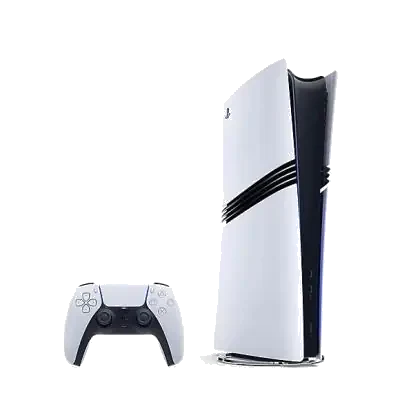
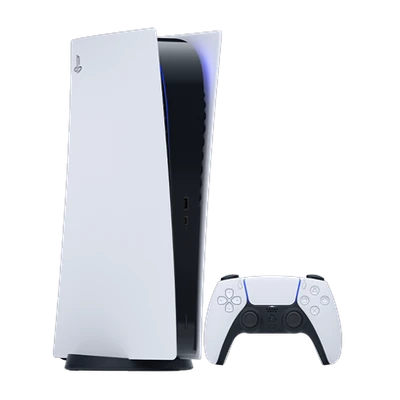
Smarter accessory prompt + fresh Swappa PS5 renders
- Accessory question now only shows when it actually moves price:
  MacBook (any condition, brick is pricey, +$30) or new tier on
  iPhone (+$10). Used iPhone / Samsung no longer ask. Drops the
  static '+$15' label in favor of the dynamic bonus value.
- getMaxPrice ceiling updated to match (+$30 macbook, +$10 iphone).
- PS5 / PS5 Slim / PS5 Pro / ps5-series thumb swapped to Swappa
  renders with proper transparent padding (was bleeding at edges).
- PS5 Pro now points to its own /devices/ps5pro.webp instead of
  reusing the standard PS5 image.

diff --git a/app/page.tsx b/app/page.tsx
@@ -1698,7 +1698,7 @@ const PS5_VARIANTS = [
   // Storage is implicit by variant — Pro ships 2 TB, Slim ships 1 TB,
   // original ships 825 GB. No storage step or extras question for
   // consoles per Skywalker (2026-05-12).
-  { id: "ps5pro",  label: "PlayStation 5 Pro",    base: 450, image: "/devices/ps5.webp" },
+  { id: "ps5pro",  label: "PlayStation 5 Pro",    base: 450, image: "/devices/ps5pro.webp" },
   { id: "ps5slim", label: "PlayStation 5 Slim",   base: 225, image: "/devices/ps5-slim-disc.webp" },
   { id: "ps5",     label: "PlayStation 5",        base: 238, image: "/devices/ps5.webp" },
 ];
@@ -2518,12 +2518,17 @@ const getMaxStorageMult = (modelId: string): number => {
   return Math.max(...sids.map(sid => ALL_STORAGES.find(s => s.id === sid)?.multiplier ?? 1));
 };
 // True ceiling for the 'Up to $X' label in the picker. PRICE_TABLE
-// holds exact per-storage / per-condition dollar amounts (currently
-// iPhone, expanding via the IWM scraper). When present we take the
-// max value across every cell — that's the real max payout. For
-// models not in the table we fall back to multiplier math, plus the
-// iPhone-only $10 accessory bonus so the displayed ceiling matches
-// what the quote step can actually award.
+// holds exact per-storage / per-condition dollar amounts. When present
+// we take the max value across every cell — that's the real max payout.
+// For models not in the table we fall back to multiplier math. Accessory
+// bonus is added so the displayed ceiling matches what the quote step
+// can actually award: MacBook +$30 (brick is pricey), iPhone +$10 (new
+// tier completes the package), zero elsewhere.
+const maxAccessoryBonus = (dt?: string | null): number => {
+  if (dt === "macbook") return 30;
+  if (dt === "iphone") return 10;
+  return 0;
+};
 const getMaxPrice = (m: { id: string; base?: number }, dt?: string | null): number => {
   const table = PRICE_TABLE[m.id];
   if (table) {
@@ -2533,15 +2538,11 @@ const getMaxPrice = (m: { id: string; base?: number }, dt?: string | null): numb
         if (price > topPrice) topPrice = price;
       }
     }
-    if (topPrice > 0) {
-      const accessoryBonus = dt === "iphone" ? 10 : 0;
-      return topPrice + accessoryBonus;
-    }
+    if (topPrice > 0) return topPrice + maxAccessoryBonus(dt);
   }
   if (!m.base) return 0;
   const computed = Math.round(m.base * getMaxStorageMult(m.id) * getTopConditionMult(dt) * TOP_CARRIER_MULT);
-  const accessoryBonus = dt === "iphone" ? 10 : 0;
-  return computed + accessoryBonus;
+  return computed + maxAccessoryBonus(dt);
 };
 
 const PAYOUTS = [
@@ -3778,15 +3779,15 @@ export default function Home() {
     } catch { setCouponError("Couldn't verify code, try again"); }
   };
 
-  // Accessory bonus: +$10 flat for iPhone, $0 for everything else.
-  // Skywalker 2026-05-12 — iPhone resale rewards original accessories
-  // (Lightning/USB-C cable, brick if pre-iPhone-12) so we pass a real
-  // premium through; Samsung resale doesn't price the box meaningfully
-  // so no bump there.
-  // isNewTier is still used to gate showing the accessories question
-  // (only "new" condition tiers see it).
+  // Accessory bonus — Skywalker 2026-05-12: only ask when it actually
+  // moves price. MacBook bricks (USB-C 96W etc) retail $79+, so they
+  // matter on any condition. New iPhones have the box/cable as part
+  // of the "sealed" premium. For used iPhone/Samsung the accessories
+  // don't move resale meaningfully so we don't ask.
   const isNewTier = condition?.id === "sealed" || condition?.id === "mint";
-  const accessoryBonus = isNewTier && accessoriesIncluded && deviceType === "iphone" ? 10 : 0;
+  const showAccessoryQuestion = isNewTier || deviceType === "macbook";
+  const accessoryBonusAmount = deviceType === "macbook" ? 30 : (isNewTier && deviceType === "iphone" ? 10 : 0);
+  const accessoryBonus = showAccessoryQuestion && accessoriesIncluded ? accessoryBonusAmount : 0;
   // MacBook spec multipliers — only fire when the picked model has a
   // MACBOOK_SPECS entry. Default to 1 so non-MacBook flows are unchanged.
   const processorMultiplier = processor?.multiplier ?? 1;
@@ -7330,8 +7331,9 @@ export default function Home() {
             {quantity > 1 && <p className="text-[#e6e6e6] text-sm mb-2">${quote} each × {quantity}</p>}
             {quantity === 1 && <div className="mb-3" />}
 
-            {/* Accessory bonus — Sealed / Mint only */}
-            {isNewTier && (
+            {/* Accessory bonus — only when it actually moves price:
+                new tier (any device) or MacBook (any condition, the brick is pricey) */}
+            {showAccessoryQuestion && accessoryBonusAmount > 0 && (
               <div className="max-w-md mx-auto mb-4">
                 <button
                   type="button"
@@ -7341,9 +7343,9 @@ export default function Home() {
                   <span className={`w-5 h-5 rounded border-2 flex items-center justify-center text-xs font-bold transition ${accessoriesIncluded ? "bg-[#00c853] border-[#00c853] text-[#0a0a0a]" : "border-white/30 text-transparent"}`}>✓</span>
                   <div className="flex-1">
                     <p className="text-sm font-semibold text-white">All original accessories included</p>
-                    <p className="text-[11px] text-[#e6e6e6]">Charger, cable, original box{condition?.id === "sealed" ? ", manuals" : ""}</p>
+                    <p className="text-[11px] text-[#e6e6e6]">{deviceType === "macbook" ? "Original brick, USB-C cable, box" : `Charger, cable, original box${condition?.id === "sealed" ? ", manuals" : ""}`}</p>
                   </div>
-                  <span className="text-[#00c853] font-bold text-sm whitespace-nowrap">+$15</span>
+                  <span className="text-[#00c853] font-bold text-sm whitespace-nowrap">+${accessoryBonusAmount}</span>
                 </button>
               </div>
             )}